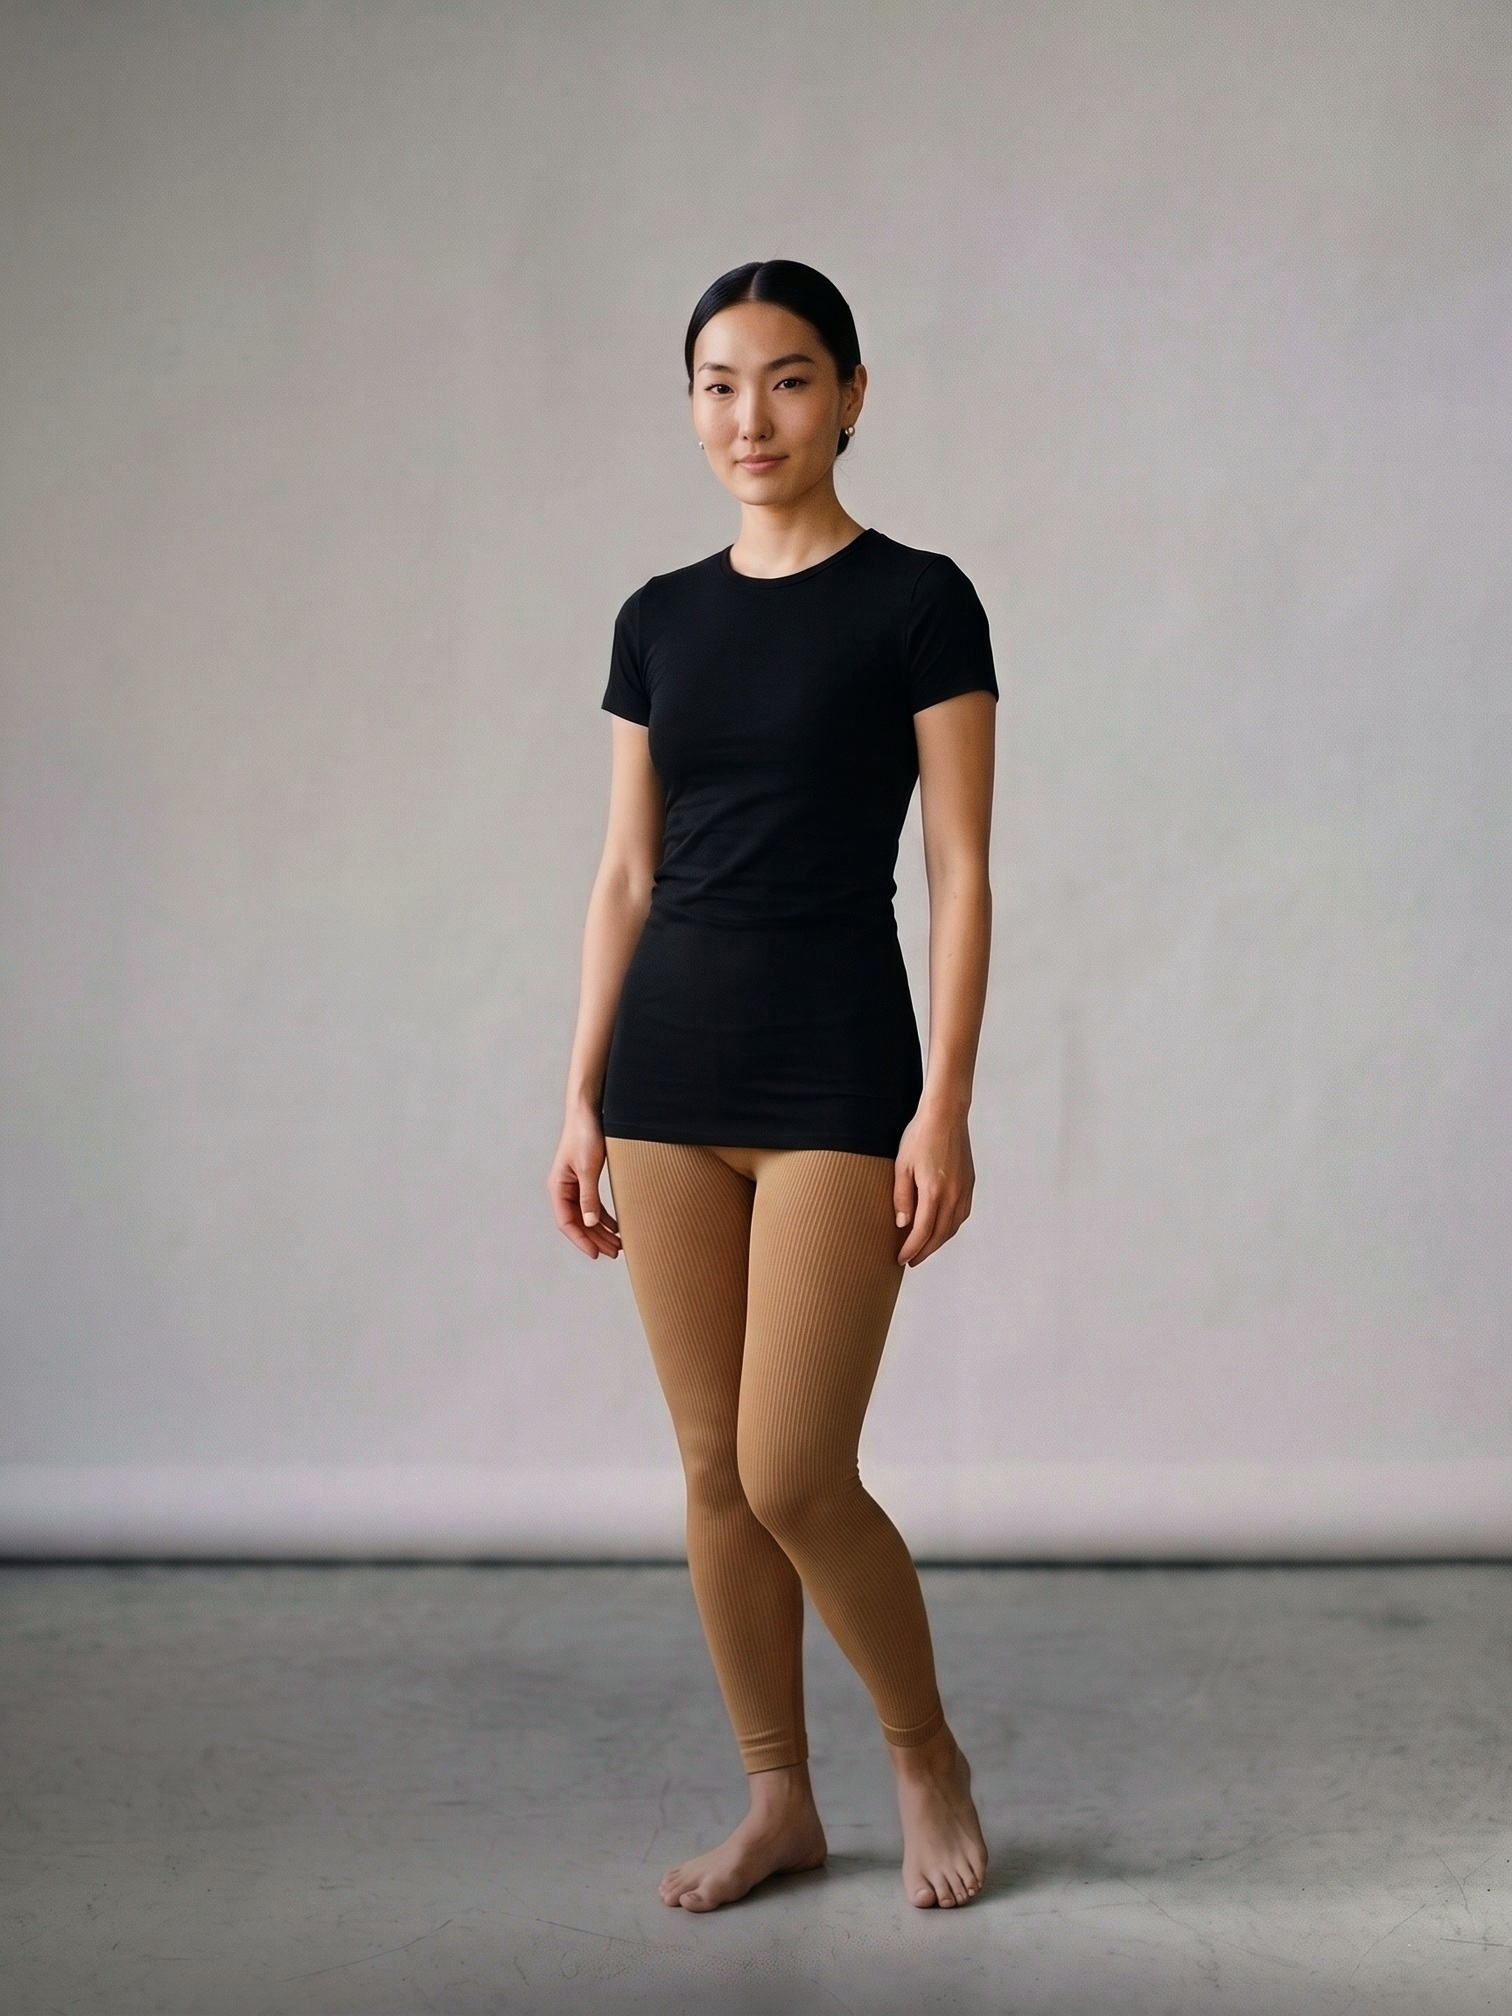
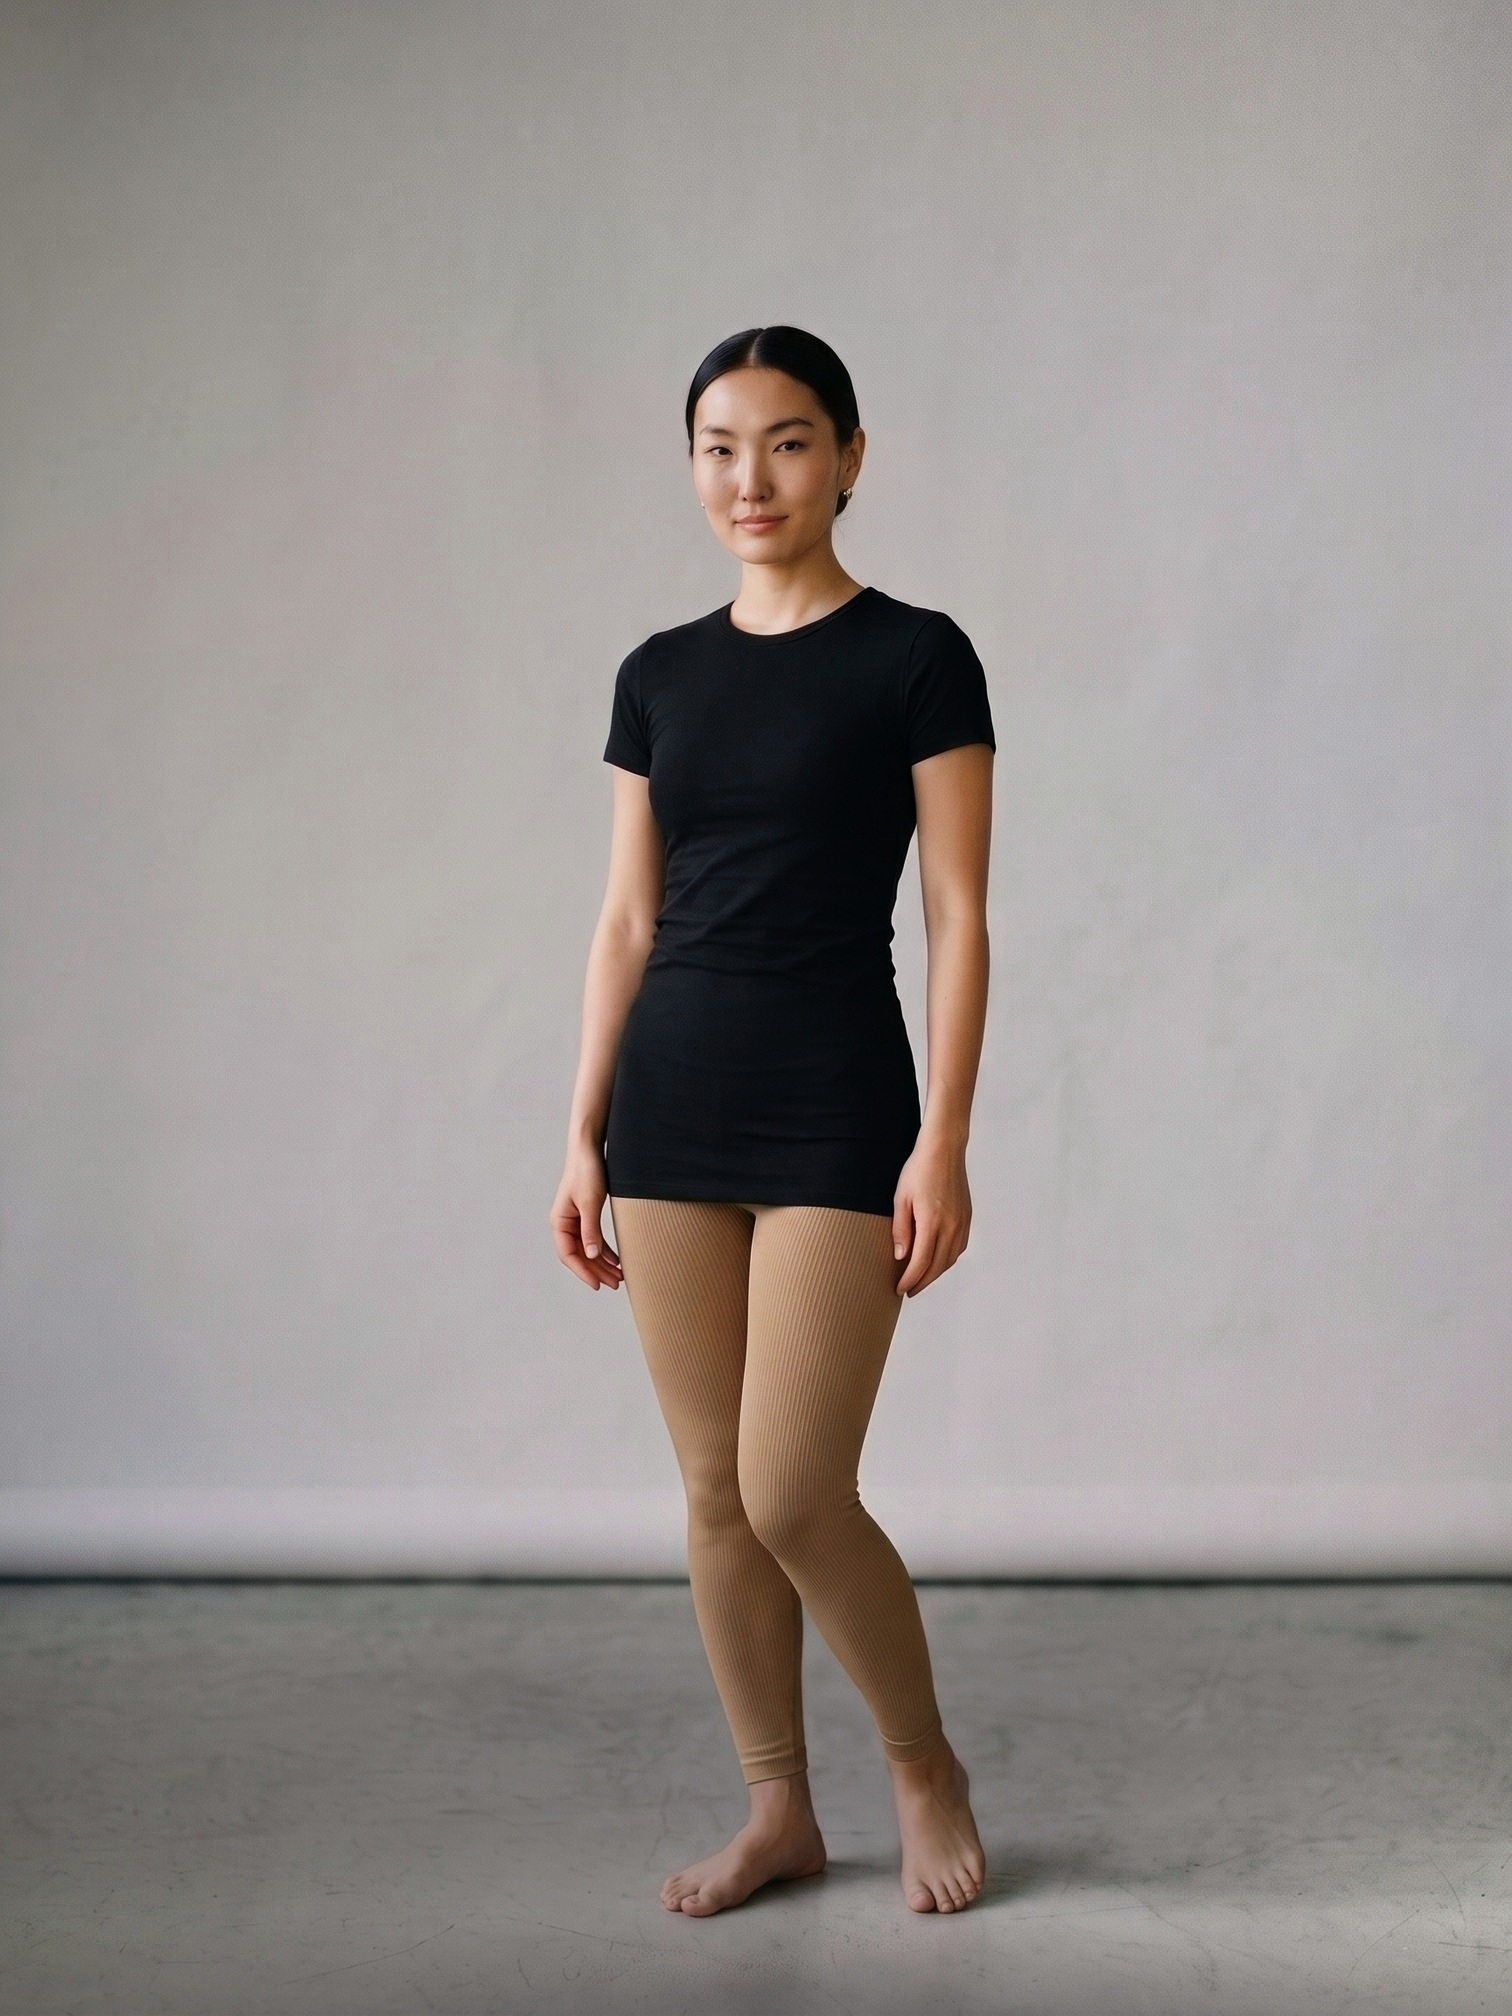
Sand legging front + back: fix2 photos (fine rib, same construction as Black), products.js?v=42; proof/detail job re-scoped to leave the tee untouched
Claude-Session: https://claude.ai/code/session_01TH6XjwVeudERd93hT9p8gq

diff --git a/assets/products.js b/assets/products.js
@@ -80,7 +80,7 @@ window.COVERLINE_PRODUCTS = [
     care: "Seamless stretch knit. Machine wash cold, hang or lay flat to dry. Skip the tumble dryer — it\'s what kills the stretch in every pair you\'ve owned before.",
     colors: [
       { key: "black", label: "Black", hex: "#25272a", image: "/assets/product-images/legging-black.jpg?v=39", images: ["/assets/product-images/legging-black.jpg?v=39", "/assets/product-images/legging-black-proof.jpg?v=39", "/assets/product-images/legging-black-back.jpg?v=39", "/assets/product-images/legging-black-detail.jpg?v=39"] },
-      { key: "nude", label: "Sand", hex: "#c9a888", image: "/assets/product-images/legging-nude.jpg?v=41", images: ["/assets/product-images/legging-nude.jpg?v=41", "/assets/product-images/legging-nude-proof.jpg?v=41", "/assets/product-images/legging-nude-back.jpg?v=41", "/assets/product-images/legging-nude-detail.jpg?v=41"] }
+      { key: "nude", label: "Sand", hex: "#c9a888", image: "/assets/product-images/legging-nude.jpg?v=42", images: ["/assets/product-images/legging-nude.jpg?v=42", "/assets/product-images/legging-nude-proof.jpg?v=42", "/assets/product-images/legging-nude-back.jpg?v=42", "/assets/product-images/legging-nude-detail.jpg?v=42"] }
     ],
     image: "/assets/product-images/legging-black.jpg?v=39",
     swatch: function(){ return '<rect width="300" height="400" fill="var(--paper-raised)"/><path d="M0,240 C 100,300 200,200 300,260 L300,400 L0,400 Z" fill="var(--accent-2)" opacity=".5"/><path d="M0,150 C 110,90 190,210 300,160" fill="none" stroke="var(--accent)" stroke-width="1"/>'; }

diff --git a/product.html b/product.html
@@ -75,7 +75,7 @@
   </div>
 </footer>
 
-<script src="/assets/products.js?v=41"></script>
+<script src="/assets/products.js?v=42"></script>
 <script src="/assets/sizecharts.js?v=2"></script>
 <script src="/assets/reviews.js?v=1"></script>
 <script src="/assets/config.js?v=4"></script>

diff --git a/index.html b/index.html
@@ -100,7 +100,7 @@
   </div>
 </footer>
 
-<script src="/assets/products.js?v=41"></script>
+<script src="/assets/products.js?v=42"></script>
 <script src="/assets/config.js?v=4"></script>
 <script src="/assets/cart.js?v=10"></script>
 <script>

diff --git a/review.html b/review.html
@@ -74,7 +74,7 @@
   </div>
 </footer>
 
-<script src="/assets/products.js?v=41"></script>
+<script src="/assets/products.js?v=42"></script>
 <script src="/assets/config.js?v=4"></script>
 <script src="/assets/cart.js?v=10"></script>
 <script>

diff --git a/404.html b/404.html
@@ -46,7 +46,7 @@
   </div>
 </footer>
 
-<script src="/assets/products.js?v=41"></script>
+<script src="/assets/products.js?v=42"></script>
 <script src="/assets/config.js?v=4"></script>
 <script src="/assets/cart.js?v=10"></script>
 </body>

diff --git a/privacy.html b/privacy.html
@@ -85,7 +85,7 @@
   </div>
 </footer>
 
-<script src="/assets/products.js?v=41"></script>
+<script src="/assets/products.js?v=42"></script>
 <script src="/assets/config.js?v=4"></script>
 <script src="/assets/cart.js?v=10"></script>
 </body>

diff --git a/shipping-returns.html b/shipping-returns.html
@@ -78,7 +78,7 @@
   </div>
 </footer>
 
-<script src="/assets/products.js?v=41"></script>
+<script src="/assets/products.js?v=42"></script>
 <script src="/assets/config.js?v=4"></script>
 <script src="/assets/cart.js?v=10"></script>
 </body>

diff --git a/terms.html b/terms.html
@@ -92,7 +92,7 @@
   </div>
 </footer>
 
-<script src="/assets/products.js?v=41"></script>
+<script src="/assets/products.js?v=42"></script>
 <script src="/assets/config.js?v=4"></script>
 <script src="/assets/cart.js?v=10"></script>
 </body>
